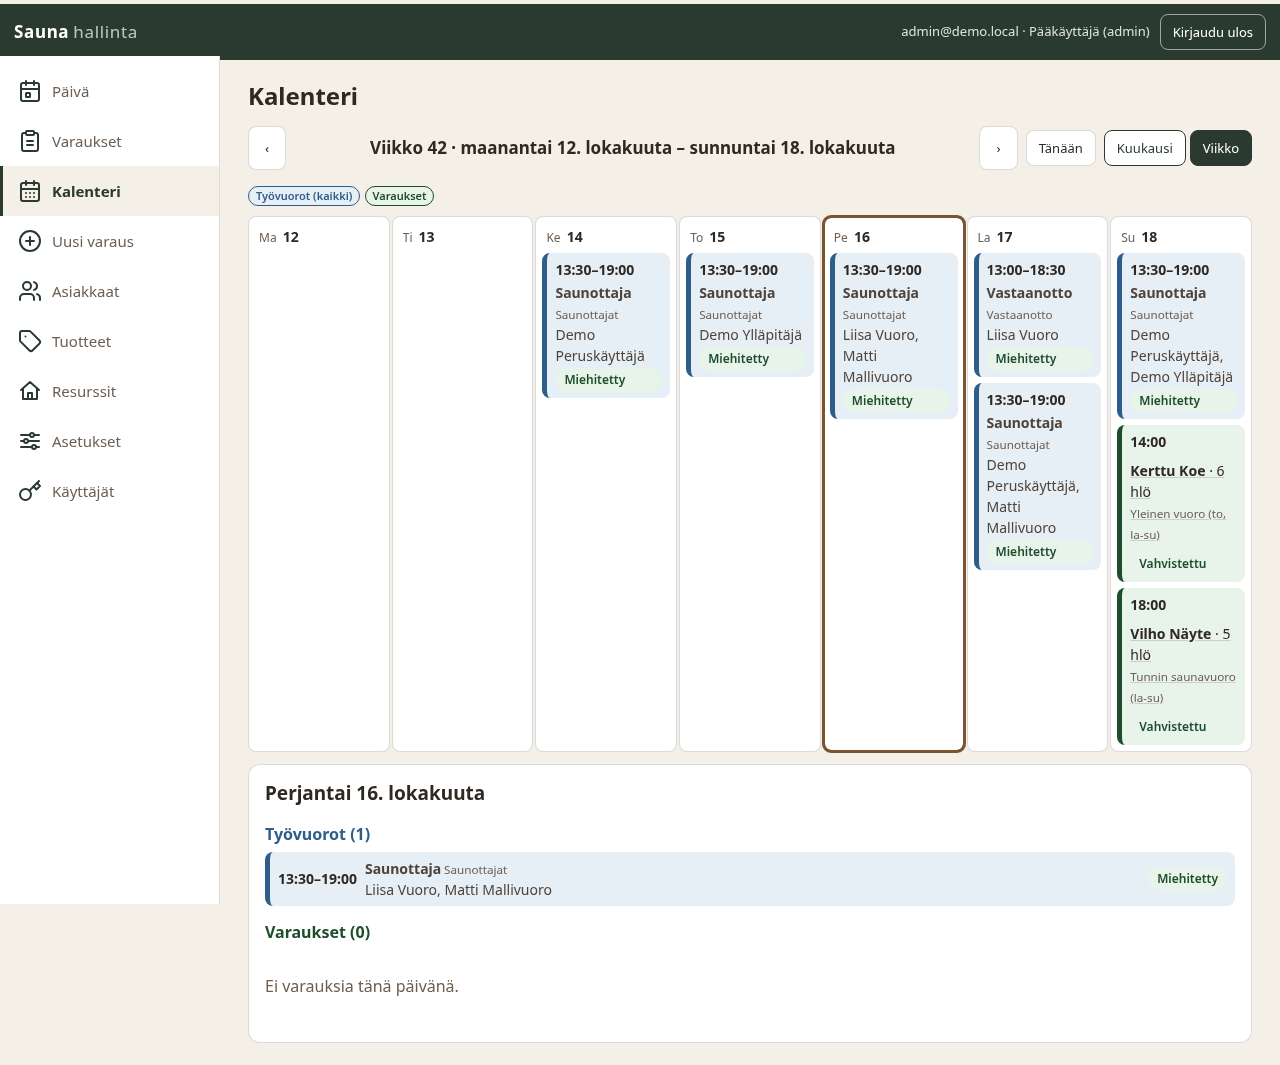
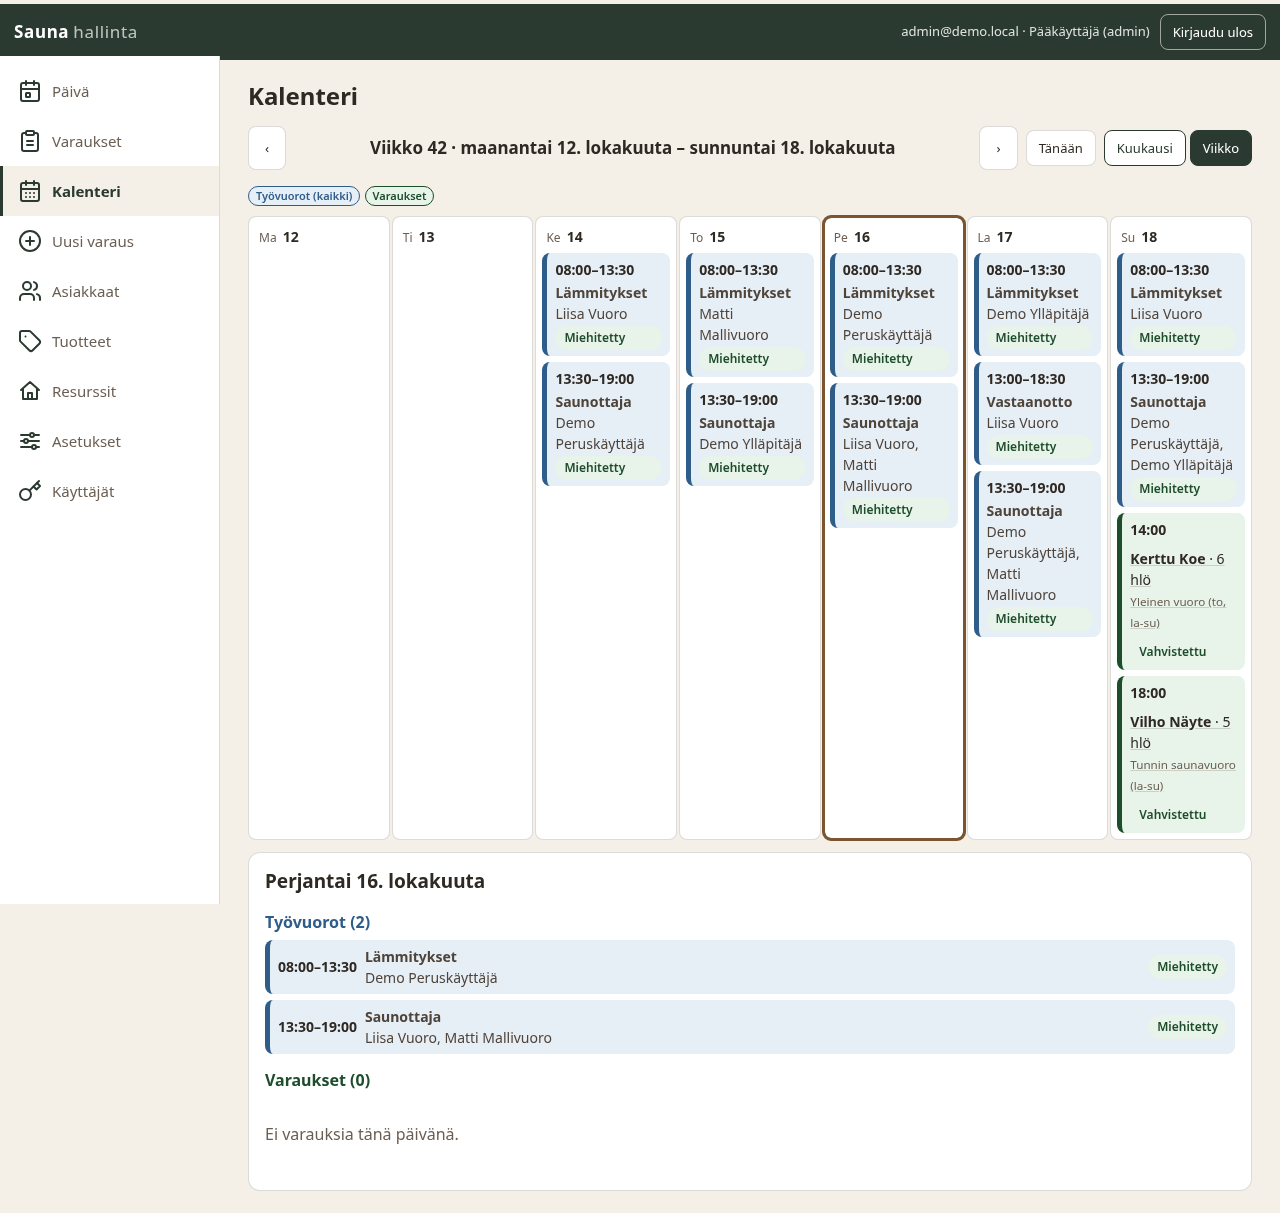
Hallinta: työvuorojen roolit ja miehitys suomeksi (Saunottaja)

diff --git a/booking/admin/views/calendar.js b/booking/admin/views/calendar.js
@@ -10,7 +10,14 @@ const dayKey = (iso) => new Date(iso).toLocaleDateString('sv-SE', { timeZone: TZ
 const dowMon = (ds) => (new Date(`${ds}T12:00:00Z`).getUTCDay() + 6) % 7;          // ma = 0
 const fmtLong = (ds) => new Intl.DateTimeFormat('fi-FI', { timeZone: 'UTC', weekday: 'long', day: 'numeric', month: 'long' }).format(new Date(`${ds}T12:00:00Z`));
 const WD = ['Ma', 'Ti', 'Ke', 'To', 'Pe', 'La', 'Su'];
-const STAFFING = { full: 'Miehitetty', open: 'Avoin', partial: 'Osittain' };
+// Työvuoron rooli ja miehitys näytetään aina suomeksi: kiinteä kartoitus tietokannan koodeista (role_type, staffing_status).
+// Tuntematon role_type → kalenterin nimi (calendar_name) tai koodi sellaisenaan. "Hoitaja" yhtenäistetään saunottajaksi.
+const ROLE_FI = { heater: 'Lämmitykset', reception: 'Vastaanotto', therapist: 'Saunottaja', saunottaja: 'Saunottaja', hoitaja: 'Saunottaja' };
+const fixRole = (x) => String(x).replace(/\bhoitaja(t)?\b/gi, (_, pl) => (pl ? 'Saunottajat' : 'Saunottaja'));
+export const roleLabel = (s) => ROLE_FI[String(s.role_type || '').toLowerCase()] || fixRole(s.calendar_name || s.role_type || 'Työvuoro');
+const STAFFING = { assigned: 'Miehitetty', full: 'Miehitetty', unassigned: 'Avoin', open: 'Avoin', partial: 'Osittain' };
+export const staffingLabel = (v) => STAFFING[String(v).toLowerCase()] || v;
+const staffingTone = (v) => (['open', 'unassigned'].includes(String(v).toLowerCase()) ? 'warn' : 'ok');
 function isoWeek(ds) { const d = new Date(`${ds}T12:00:00Z`); const day = (d.getUTCDay() + 6) % 7; d.setUTCDate(d.getUTCDate() - day + 3); const y = d.getUTCFullYear(); const j = new Date(Date.UTC(y, 0, 4)); return 1 + Math.round(((d - j) / 864e5 - 3 + ((j.getUTCDay() + 6) % 7)) / 7); }
 
 export async function render({ ctx, refs, reload }) {
@@ -41,9 +48,9 @@ export async function render({ ctx, refs, reload }) {
 
   const shiftItem = (s) => h('li', { class: 'cal-item shift', 'data-kind': 'shift' },
     h('span', { class: 'cal-time', text: `${fmtTime(s.starts_at)}–${fmtTime(s.ends_at)}` }),
-    h('span', { class: 'cal-txt' }, h('strong', { text: s.role_type || 'Työvuoro' }), s.calendar_name ? h('small', { text: ` ${s.calendar_name}` }) : null,
+    h('span', { class: 'cal-txt' }, h('strong', { text: roleLabel(s) }),
       h('br'), h('span', { text: s.names.length ? s.names.join(', ') : 'Ei nimettyä henkilöä' })),
-    s.staffing_status ? badge(s.staffing_status === 'open' ? 'warn' : 'ok', STAFFING[s.staffing_status] || s.staffing_status) : null);
+    s.staffing_status ? badge(staffingTone(s.staffing_status), staffingLabel(s.staffing_status)) : null);
   const bookingItem = (r) => h('li', { class: 'cal-item booking', 'data-kind': 'booking' },
     h('span', { class: 'cal-time', text: fmtTime(r.starts_at) }),
     h('button', { type: 'button', class: 'link cal-txt', onclick: () => reservationDialog(r, { methods: refs.methods, onChange: () => draw() }) }, h('strong', { text: r.customer_name || '–' }), ` · ${r.persons} hlö`, h('br'), h('small', { text: r.product_name || '' })),

diff --git a/booking/docs/roolit-ja-kb.md b/booking/docs/roolit-ja-kb.md
@@ -83,6 +83,8 @@ Totuus on Google Calendar → Työvuoro-Tapio-synkka → `public.work_shifts`. V
 * palauttaa vain: `shift_id, starts_at, ends_at, role_type, calendar_name, staffing_status, staff_name` (**ei** puhelinta, sähköpostia, muistiinpanoja eikä kalenteri-id:tä); yksi rivi per nimetty työntekijä;
 * enintään 62 päivän aikaväli (muuten virhe `range_too_long`; +1 h liikkumavara kesäaikasiirtymälle), käänteinen/tyhjä väli → `invalid_range`;
 * `shifts.view_all` (admin, manager) näkee kaikki; `shifts.view` (staff) vain omat vuoronsa linkin `booking.staff.public_staff_id` kautta (ei linkkiä → tyhjä lista; omalta vuorolta ei näy kollegojen nimiä); ei kumpaakaan oikeutta → virhe `forbidden`.
+* **Näyttö suomeksi (v10, vain frontend, ei SQL-muutosta):** hallinnan kalenteri (`admin/views/calendar.js`) kartoittaa `role_type`-koodit kiinteästi suomeksi: `heater` → Lämmitykset, `reception` → Vastaanotto, `therapist` → Saunottaja. Tuntemattomalle koodille näytetään `calendar_name` (sana "Hoitaja" → "Saunottaja") tai koodi sellaisenaan. `staffing_status`: `assigned`/`full` → Miehitetty, `unassigned`/`open` → Avoin, `partial` → Osittain (avoin korostetaan keltaisella), muut arvot näytetään sellaisenaan. Koodia ei näytetä käyttäjälle.
+
 `public`-taulujen lukuoikeus annetaan vain funktion omistajalle (SECURITY DEFINER): `authenticated`/`anon` eivät saa suoria oikeuksia `public`-tauluihin (testikanta todistaa tämän: mockiin ei anneta GRANTteja).
 
 ### OLETETUT `public`-sarakkeet (varmistettava ennen migraatioiden ajoa!)
